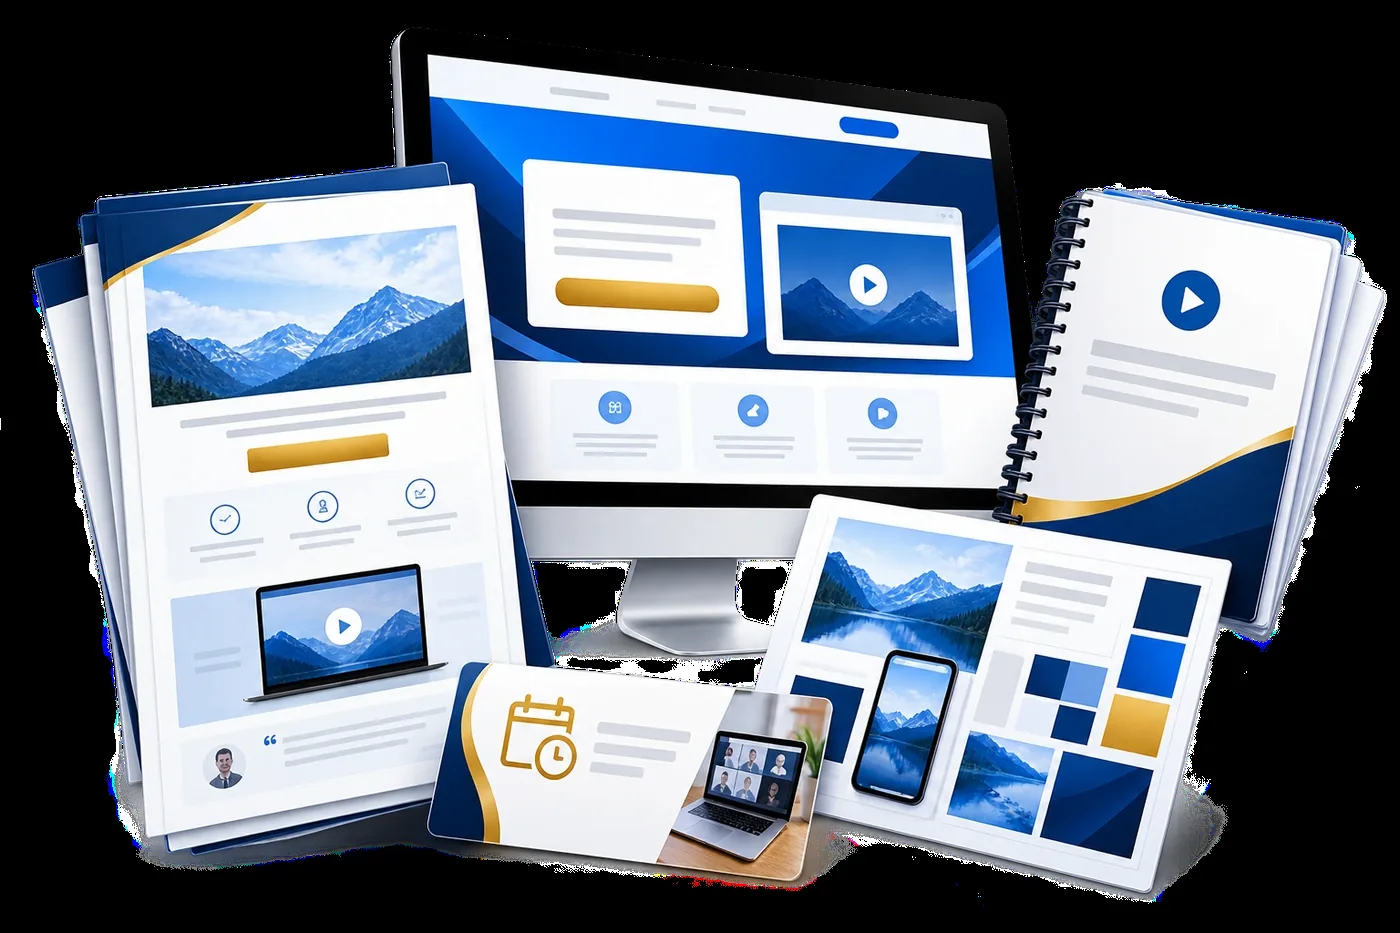
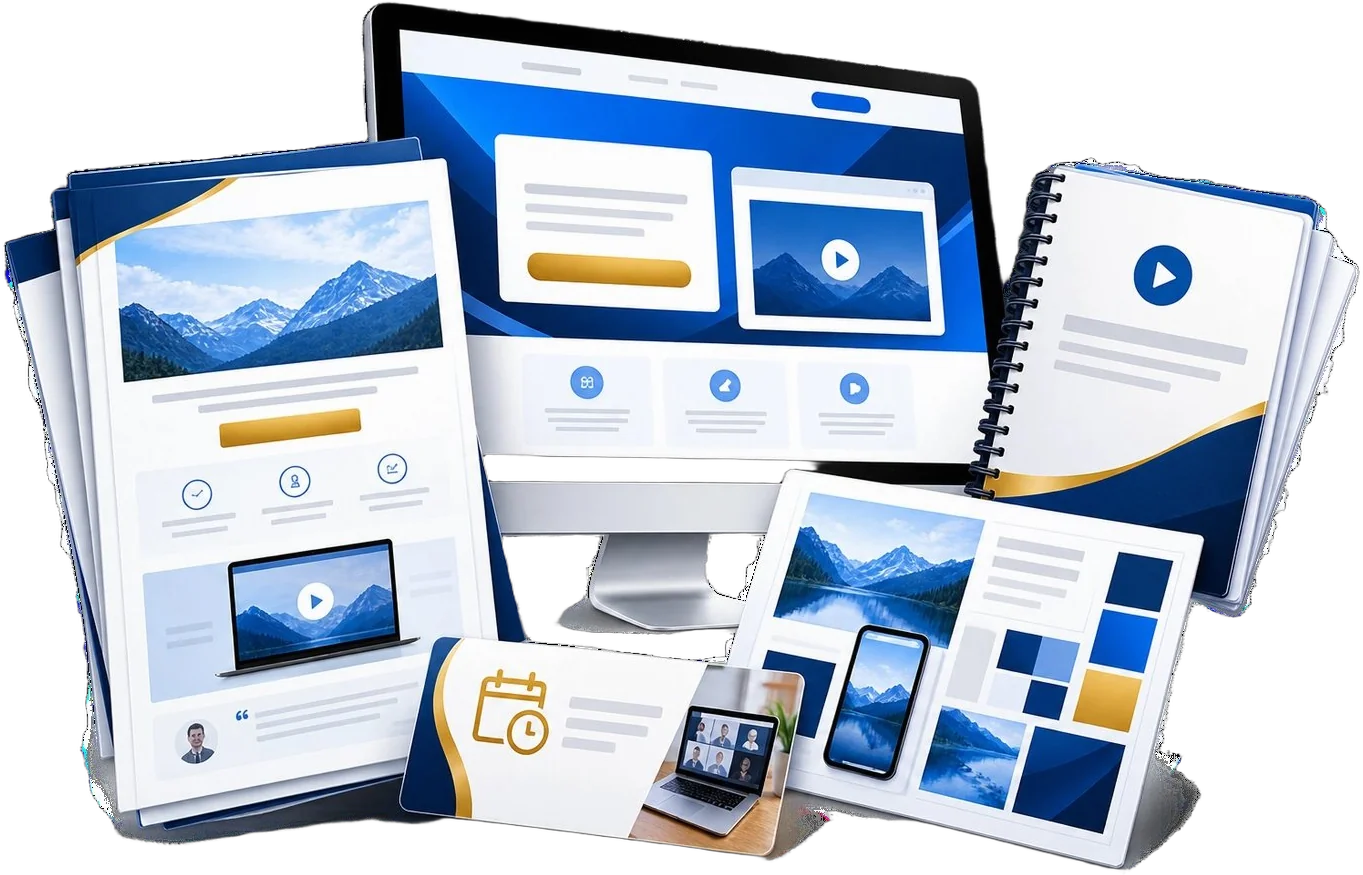
Fix the bundle image's black background, plus a real spacing bug it exposed
Removed the black vignette from the deliverables bundle image using
rembg (a proper matting model, not a naive color threshold — the image
has dark blue/black devices in it that a simple "delete near-black
pixels" pass would have eaten into). Cropped to the trimmed bounding
box and re-exported as WebP + PNG (JPEG can't carry alpha, so the
fallback format changed too). Now blends into the white box instead of
sitting in a jarring black rectangle.

That same box's LAST child changed shape when this shipped (a <div>
instead of a <p>), which exposed two real bugs at once:

1. A page-wide `section{padding:74px 0}` rule — dating to this
   project's very first commit, written for a different page's layout
   — was silently applying to every bare <section> on this page too.
   Confirmed live (not assumed): 74px of real padding on a section
   whose last child was a quote block, compounding with this page's
   own section-margin into a ~140px gap where 38px was intended.
   Scoped a padding:0 override onto .sp-letter > section rather than
   touching the shared global rule, since other pages may still rely
   on it for their own bare sections.

2. .sp-gift-headline lost a CSS specificity fight against .sp-letter p
   (class+element beats single class) and was silently rendering as
   plain 16.5px body text instead of the large accent headline it was
   built to be — confirmed by screenshot, then fixed with !important
[…]

diff --git a/public/assets/theme.css b/public/assets/theme.css
@@ -867,12 +867,26 @@
   .sp-letter strong{color:var(--ink);font-weight:700;}
   .sp-letter em{font-style:italic;}
 
-  /* Each <section> is one topical beat, and — because p:last-child above
-     zeroes out its own trailing margin — sections butted directly against
-     each other with NO gap at all: 7 of the 9 boundaries on this page
-     measured literally 0px until this rule existed. Margin only on
-     non-first children, so the hero keeps its own top spacing untouched. */
-  .sp-letter > section{margin-top:32px;}
+  /* Each <section> is one topical beat, spaced by margin alone — see
+     below for why padding is explicitly zeroed here.
+
+     Margin: p:last-child (above) zeroes a paragraph's own trailing
+     margin, and every section here ends in a <p>, so sections butted
+     directly against each other with NO gap at all until this rule
+     existed. Margin only on non-first children, so the hero keeps its
+     own top spacing untouched.
+
+     Padding: the base stylesheet has a much older, unscoped
+     `section{padding:74px 0}` (from this project's very first commit,
+     for a different page's layout) that silently applies to every bare
+     <section> on the site, this page included. Confirmed live: a
+     14-year-old... no, a same-day-old bug, but real — measured 74px of
+     padding actually rendering on this page's sections, compounding
+     with the margin above into a ~140px gap the moment a quote block
+     (a <div>, not a <p> — immune to the last-child override) landed as
+     a section's last child. Zeroed here rather than touched at the
+     source, since other pages may still depend on the global rule. */
+  .sp-letter > section{margin-top:32px;padding:0;}
   .sp-letter > section:first-child{margin-top:0;}
   @media(min-width:600px){.sp-letter > section{margin-top:38px;}}
 
@@ -924,7 +938,9 @@
   .sp-hero .btn{font-size:15.5px;padding:14px 30px;}
 
   /* ---- pull-quotes ---- */
-  .sp-quote{margin:20px 0;padding:2px 0 2px 18px;border-left:3px solid var(--accent);}
+  /* A touch more room than a plain paragraph gets — a quote is meant to
+     read as a pause in the letter, not just another line. */
+  .sp-quote{margin:26px 0;padding:2px 0 2px 18px;border-left:3px solid var(--accent);}
   .sp-quote blockquote{
     font-family:Georgia,'Times New Roman',Times,serif;font-style:italic;
     font-size:16.5px;line-height:1.55;color:#3D3A36;margin:0;
@@ -967,30 +983,54 @@
   }
   .sp-bundle-img{
     display:block;width:100%;height:auto;margin-top:18px;
-    border-radius:8px;
   }
   .sp-stack-total .val{color:var(--accent);font-size:19px;}
 
+  /* ---- credibility checklist ---- */
+  .sp-check-list{list-style:none;margin:20px 0;padding:0;}
+  .sp-check-list li{
+    position:relative;padding-left:30px;margin-bottom:13px;
+    font-size:16.5px;line-height:1.6;color:#3D3A36;
+  }
+  .sp-check-list li:last-child{margin-bottom:0;}
+  .sp-check-list li::before{
+    content:'';position:absolute;left:0;top:3px;width:19px;height:19px;
+    border-radius:50%;background:var(--accent);
+  }
+  .sp-check-list li::after{
+    content:'';position:absolute;left:5.5px;top:7.5px;width:9px;height:5px;
+    border-left:2.4px solid #fff;border-bottom:2.4px solid #fff;
+    transform:rotate(-45deg);
+  }
+  .sp-hi{color:var(--accent-dark);font-weight:700;text-decoration:underline;text-decoration-thickness:2px;text-underline-offset:2.5px;}
+
   /* ---- the free-coaching-call gift ---- */
   .sp-gift-box{
-    position:relative;text-align:center;margin:22px 0;
-    border:2px solid var(--accent);border-radius:14px;
-    padding:28px 24px 24px;
+    position:relative;text-align:center;margin:26px 0;
+    border:2px solid var(--accent);border-radius:16px;
+    padding:30px 24px 26px;
     background:linear-gradient(180deg,var(--accent-tint),#fff 65%);
   }
-  .sp-gift-tag{
-    display:inline-block;
-    font-size:12px;font-weight:800;letter-spacing:0.07em;text-transform:uppercase;
-    color:var(--accent-dark);margin-bottom:12px;
-    padding:5px 12px;border-radius:20px;background:#fff;
-    box-shadow:0 0 0 1px var(--accent);
-  }
+  .sp-gift-icon{display:block;margin:0 auto 10px;}
+  /* !important throughout: .sp-letter p (class+element, specificity 0,1,1)
+     otherwise beats this single-class selector (0,1,0) and silently wins —
+     that's exactly what happened here on the first pass, rendering this as
+     small dark body text instead of the big accent headline it's meant
+     to be. Confirmed by screenshot, not assumed. */
   .sp-gift-headline{
-    font-family:Georgia,'Times New Roman',Times,serif;
-    font-size:22px;line-height:1.32;font-weight:700;color:var(--ink);
-    margin-bottom:8px !important;
+    font-family:Georgia,'Times New Roman',Times,serif !important;
+    font-size:26px !important;line-height:1.28 !important;
+    font-weight:800 !important;color:var(--accent-dark) !important;
+    margin-bottom:18px !important;
   }
-  @media(min-width:600px){.sp-gift-headline{font-size:25px;}}
+  @media(min-width:600px){.sp-gift-headline{font-size:31px !important;}}
+  .sp-gift-banner{
+    background:linear-gradient(180deg,var(--accent),var(--accent-dark));
+    color:#fff;font-size:16px;font-weight:700;line-height:1.4;
+    border-radius:10px;padding:14px 20px;margin-bottom:14px;
+    box-shadow:0 8px 18px -8px rgba(45,91,255,0.55);
+  }
+  @media(min-width:600px){.sp-gift-banner{font-size:18px;}}
   .sp-gift-sub{
     font-size:14px;font-weight:800;letter-spacing:0.04em;
     color:var(--accent-dark);margin-bottom:0 !important;

diff --git a/public/sales-page/index.html b/public/sales-page/index.html
@@ -83,7 +83,8 @@
   <p>Between us, this is not some AI Page that was just prompted…</p>
   <p>It won't be just some nice good looking text…</p>
   <p>Absolutely Anybody Can Have This <em>(to make it real EASY, I'll make ALL Done For You …)</em></p>
-  <p>Luckily, I Will Show You IN JUST A SECOND…</p>
+  <p>Luckily,</p>
+  <p>I'll Show You IN JUST A SECOND…</p>
 </section>
 
 <!-- ══════════════ AUTHORITY QUOTES ══════════════ -->
@@ -159,30 +160,39 @@
 <!-- ══════════════ CREDENTIALS ══════════════ -->
 <section>
   <p style="text-align:center;">You Can Access It All…</p>
-  <p>I Been In This Game Long Time…</p>
-  <p>I've studied books on this, taken more than 50 pages of notes…</p>
-  <p>Studied endless examples…</p>
-  <p>Invested 100's and 100's Of Endless Hours of My Time…</p>
-  <p>Also This Is Not The End…</p>
-  <p>There is a Tremendous Value Waiting…</p>
+
+  <ul class="sp-check-list">
+    <li>I Been In This Game <strong class="sp-hi">Long Time</strong>…</li>
+    <li>I've studied books on this, taken more than <strong class="sp-hi">50 pages</strong> of notes…</li>
+    <li>Studied <strong class="sp-hi">endless</strong> examples…</li>
+    <li>Invested <strong class="sp-hi">100's and 100's</strong> Of Endless Hours of My Time…</li>
+    <li>Also This Is <strong class="sp-hi">Not The End</strong>…</li>
+    <li>There is a <strong class="sp-hi">Tremendous Value</strong> Waiting…</li>
+  </ul>
 
   <!-- This is a real $997 line item in the value stack below (see
        "Special Access to One-to-One Coaching Call"), but as plain bold
        text it read the same weight as every other emphasized line on the
        page. Given its own box so it reads as the standout bonus it is. -->
   <div class="sp-gift-box">
-    <span class="sp-gift-tag">Very Special Gift I'll Share With YOU…</span>
-    <p class="sp-gift-headline">Special Access to Free Coaching 1 On 1 For 30 Min Call!</p>
+    <svg class="sp-gift-icon" width="40" height="40" viewBox="0 0 24 24" fill="none" aria-hidden="true">
+      <rect x="3" y="9" width="18" height="11" rx="1.2" fill="var(--accent)"/>
+      <rect x="3" y="9" width="18" height="3.4" rx="0.8" fill="var(--accent-dark)"/>
+      <rect x="10.6" y="9" width="2.8" height="11" fill="#fff" opacity="0.85"/>
+      <path d="M12 9c-1.6-3.4-6.4-3.6-6.4-.6 0 1.4 1.4 .6 6.4 .6z" fill="var(--accent-dark)"/>
+      <path d="M12 9c1.6-3.4 6.4-3.6 6.4-.6 0 1.4-1.4 .6-6.4 .6z" fill="var(--accent-dark)"/>
+    </svg>
+    <p class="sp-gift-headline">Very Special Gift I'll Share With YOU…</p>
+    <div class="sp-gift-banner">Special Access to Free Coaching 1 On 1 For 30 Min Call!</div>
     <p class="sp-gift-sub">ANY QUESTIONS ANSWERED!</p>
   </div>
-
-  <p>Just to RECAP, Here's Everything You Get…</p>
 </section>
 
 <hr class="sp-rule">
 
 <!-- ══════════════ VALUE STACK ══════════════ -->
 <section>
+  <p style="text-align:center;">Just to RECAP, Here's Everything You Get…</p>
   <div class="sp-stack">
     <div class="sp-stack-row"><span class="item">Exclusive Personalized Sales Page Copy for Your Business</span><span class="val">$2,997</span></div>
     <div class="sp-stack-row"><span class="item">Special Option To Customize Before Even Building the Visuals</span><span class="val">$499</span></div>
@@ -192,7 +202,7 @@
     <div class="sp-stack-total"><span class="item">Total value of</span><span class="val">$5,434!</span></div>
     <picture>
       <source srcset="/assets/sales-page-bundle.webp" type="image/webp">
-      <img src="/assets/sales-page-bundle.jpg" alt="Everything included: the finished sales page, the copy document, the video script, and the coaching call — mocked up together." class="sp-bundle-img" width="1400" height="933" loading="lazy">
+      <img src="/assets/sales-page-bundle.png" alt="Everything included: the finished sales page, the copy document, the video script, and the coaching call — mocked up together." class="sp-bundle-img" width="1363" height="875" loading="lazy">
     </picture>
   </div>
 </section>
